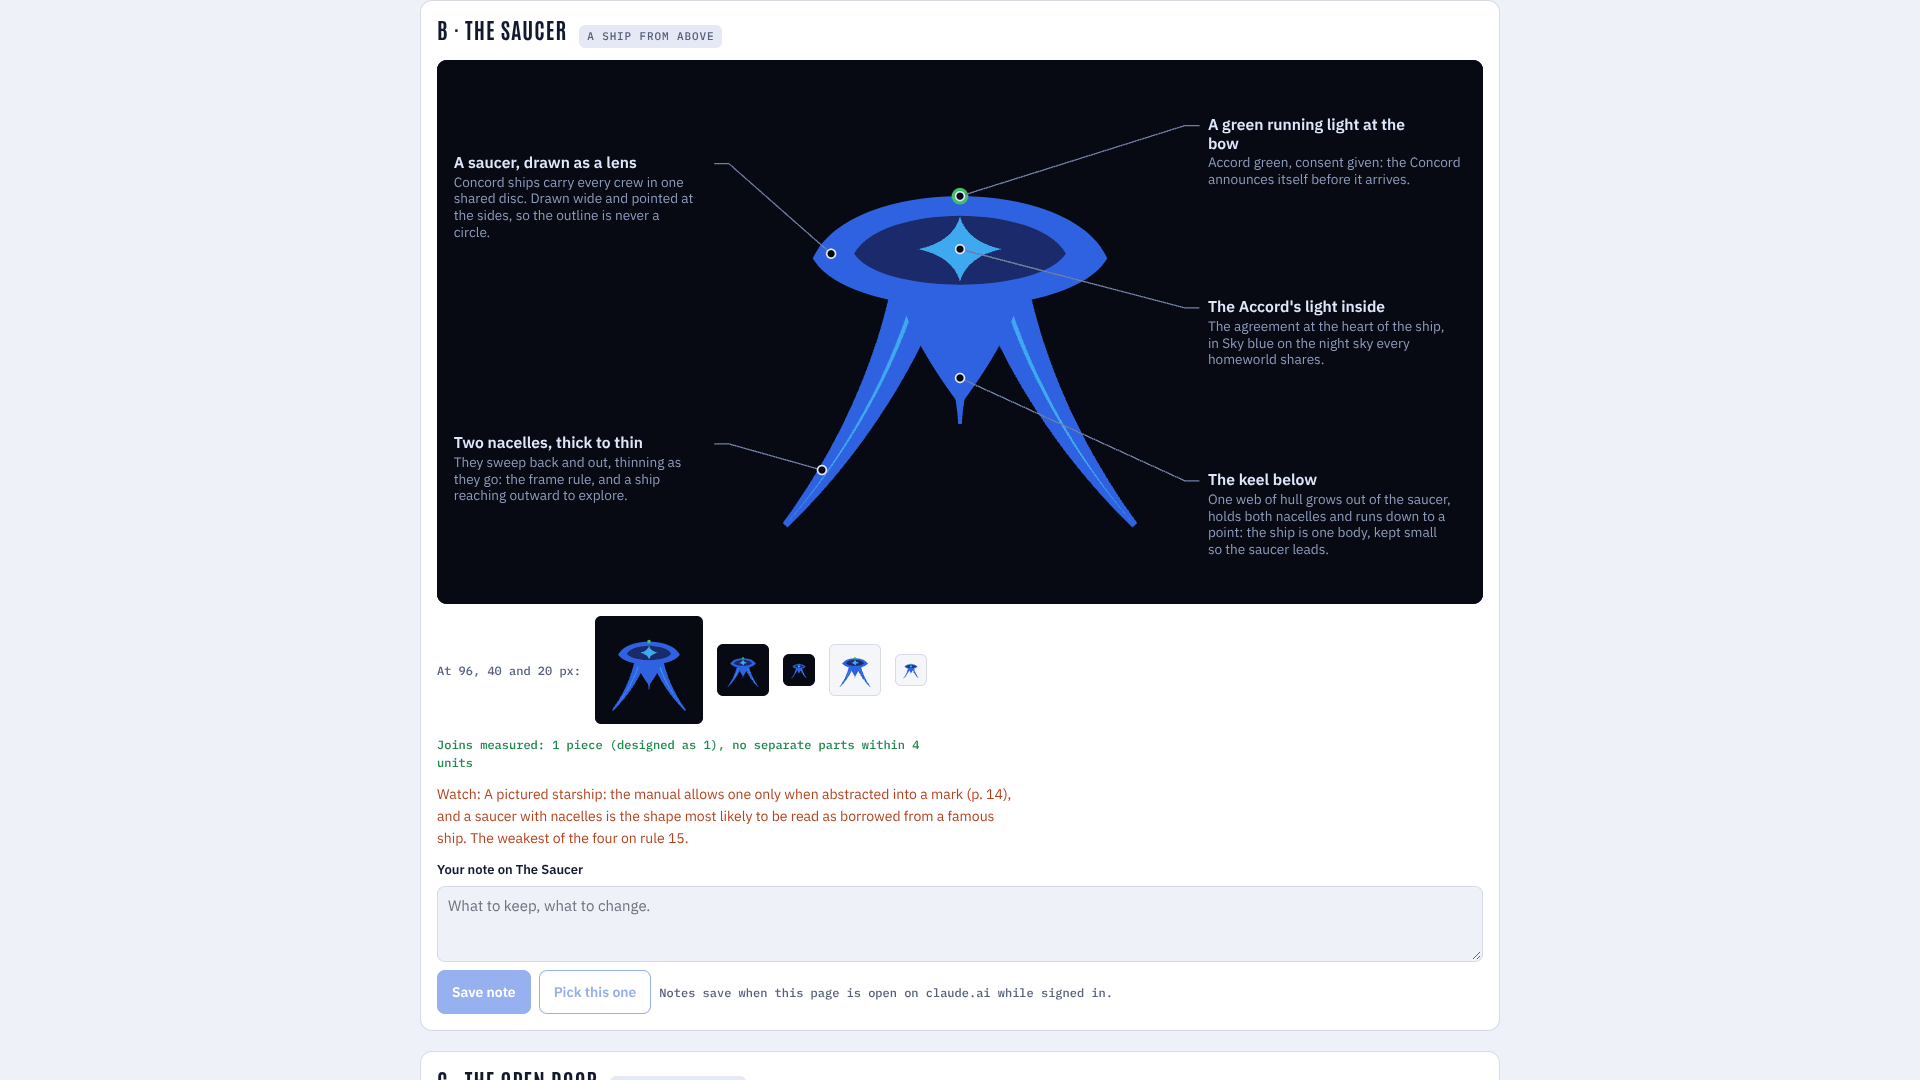
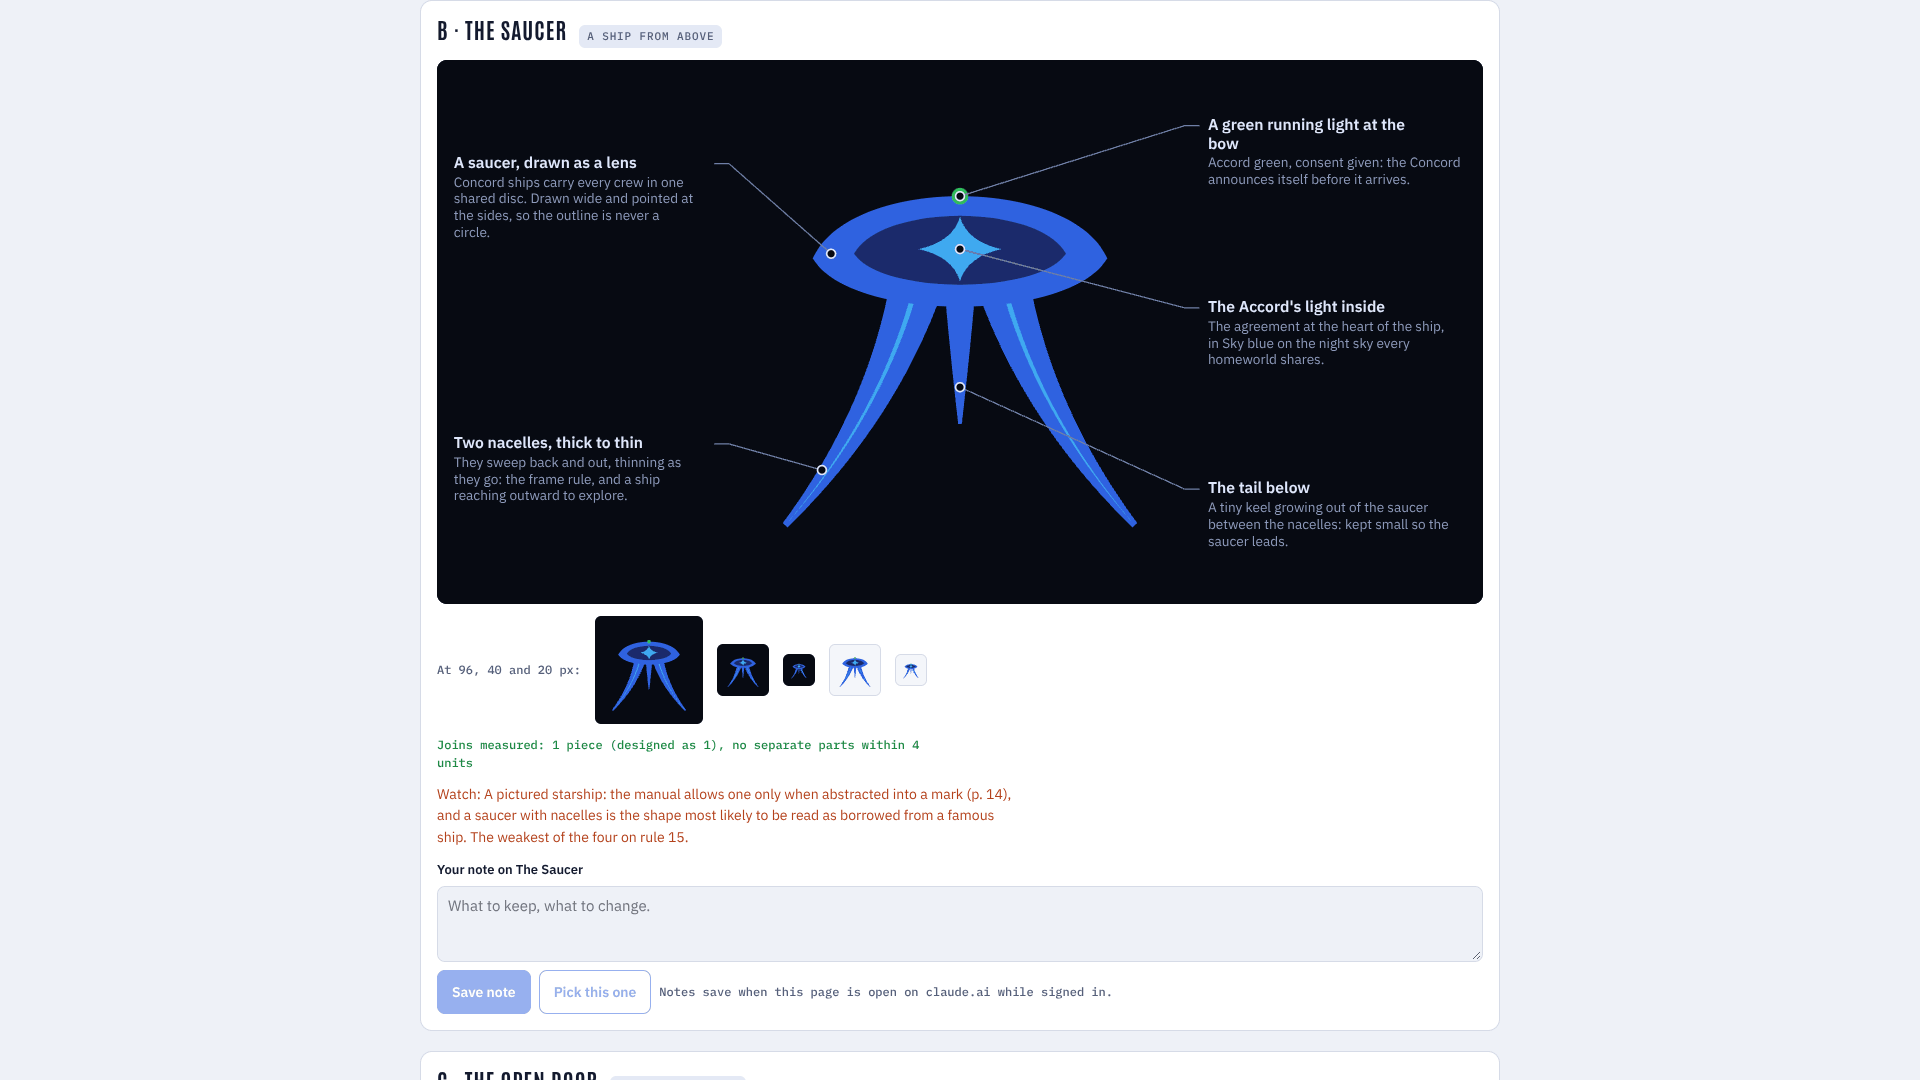
Emblem guide v3: B keeps its first shape (three legs, tiny tail), only its joins closed
Claude-Session: https://claude.ai/code/session_01RGPQurdNhehmMFB559epqW

diff --git a/docs/design/emblem-guide.html b/docs/design/emblem-guide.html
@@ -197,6 +197,7 @@ ol.steps .st { font: 500 11px var(--mono); letter-spacing: 0.08em; text-transfor
 'use strict';
 // ---- your notes (newest first): kept in the page, added by Claude as you give them -----------------------------------
 const NOTES = [
+  { when: '2026-11-03', q: 'that changed the jellyfish design to much, the jelly fish has a tiny small tail', means: 'B keeps its first shape (three separate legs, a tiny tail); only the joins under the saucer were closed. A fix mends the flaw and changes nothing else.' },
   { when: '2026-11-03', q: 'unpick that, I didnt pick anything yet', means: 'The saved pick (B, from a stray click) was removed; pressing a picked design again now undoes it.' },
   { when: '2026-11-03', q: 'you can see gaps in the shape, this is low quality work', means: 'Every part grows out of the one it joins, and each sketch\'s joins are measured on the page: one body where it should be, and parts that stand apart at least 4 grid units clear (rule 17).' },
   { when: '2026-11-03', q: 'add a link to references for this, and compile a design guide for emplems from this', means: 'The STARFLEET Visual Standards Manual is under References, summarised with page numbers, and folded into The rules for every emblem.' },
@@ -325,11 +326,10 @@ const DESIGNS = [
       let s = '';
       for (const sx of [1, -1]) {
         const X = (x) => 50 + sx * x;
-        s += path(ribbon([[X(8), 36], [X(13), 56], [X(24), 76], [X(38), 92]], (t) => 5.4 * (1 - t) + 0.7), C.signal);
-        s += path(ribbon([[X(8), 36], [X(13), 56], [X(24), 76], [X(38), 92]], (t) => 0.6 * (1 - t)), C.sky);
+        s += path(ribbon([[X(9), 38], [X(14), 58], [X(24), 76], [X(38), 92]], (t) => 5.2 * (1 - t) + 0.7), C.signal);
+        s += path(ribbon([[X(9), 38], [X(14), 58], [X(24), 76], [X(38), 92]], (t) => 0.6 * (1 - t)), C.sky);
       }
-      s += path(ribbon([[50, 38], [50, 50], [50, 60], [50, 70]], (t) => 6.5 * Math.pow(1 - t, 1.4) + 0.4), C.signal);
-      s += path('M36 40C39 50 44 58 50 66C56 58 61 50 64 40Z', C.signal);
+      s += path(ribbon([[50, 40], [50, 52], [50, 61], [50, 70]], (t) => 3 * (1 - t) + 0.4), C.signal);
       const lens = 'M18 34C26 16 74 16 82 34C74 48 26 48 18 34Z';
       s += path(lens, C.signal);
       s += path('M27 33C33 22 67 22 73 33C67 42 33 42 27 33Z', C.deep);
@@ -342,7 +342,7 @@ const DESIGNS = [
       [50, 32, 'R', 'The Accord\'s light inside', 'The agreement at the heart of the ship, in Sky blue on the night sky every homeworld shares.'],
       [20, 80, 'L', 'Two nacelles, thick to thin', 'They sweep back and out, thinning as they go: the frame rule, and a ship reaching outward to explore.'],
       [50, 20.5, 'R', 'A green running light at the bow', 'Accord green, consent given: the Concord announces itself before it arrives.'],
-      [50, 60, 'R', 'The keel below', 'One web of hull grows out of the saucer, holds both nacelles and runs down to a point: the ship is one body, kept small so the saucer leads.'],
+      [50, 62, 'R', 'The tail below', 'A tiny keel growing out of the saucer between the nacelles: kept small so the saucer leads.'],
     ],
   },
   {

diff --git a/docs/artifacts/emblem-guide/README.md b/docs/artifacts/emblem-guide/README.md
@@ -23,3 +23,6 @@
   (`window.EMBLEM_CHECK`, run headless by `tools/emblems/sketch_check.mjs`); rule 17 added; pressing a picked design
   again removes the pick. The stray pick of B in the `notes` collection was deleted at the owner's word ("unpick that,
   I didnt pick anything yet").
+- Version 3 published 2026-11-03: B restored to its first shape (owner: "that changed the jellyfish design to much, the
+  jelly fish has a tiny small tail"): three separate legs and the tiny tail, only rooted under the saucer so no wedge
+  gaps show; the web of hull from version 2 removed.
